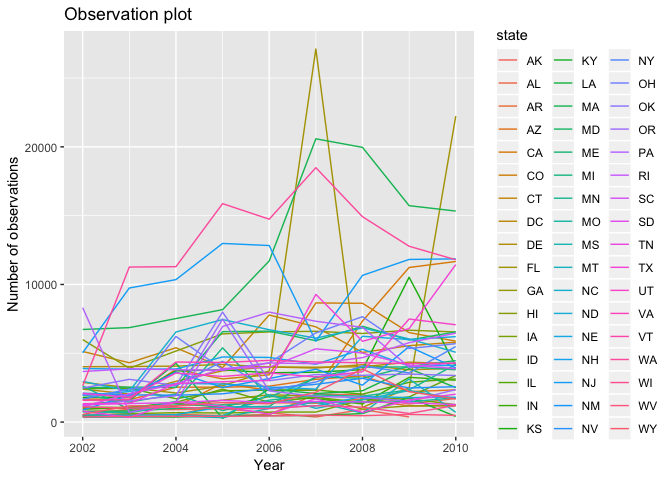
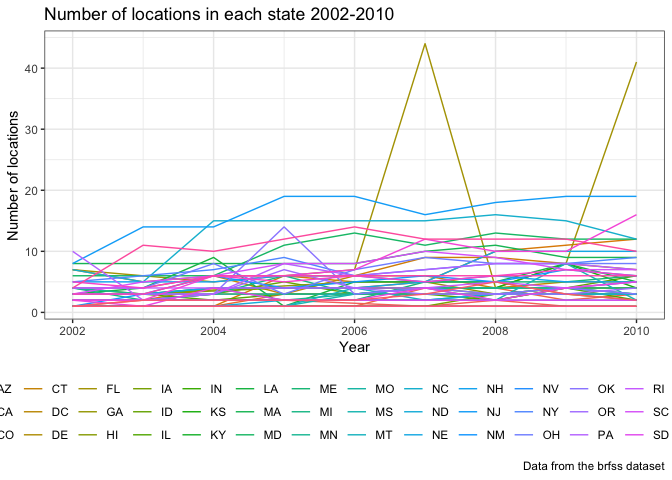
Make correspongding correction to problem 1 and 2

diff --git a/p8105_hw3_xz2788.md b/p8105_hw3_xz2788.md
@@ -80,17 +80,23 @@ There are three states were observed at 7 locations. These are: "Connecticut (CT
 ``` r
 brfss_smart2010_tidy %>% 
   group_by(state, year) %>% 
-  summarize(n_obs = sum(sample_size)) %>% 
-  ggplot(aes(x = year, y = n_obs)) + 
+  summarize(n_locat = sum(n_distinct(geo_location, na.rm = TRUE))) %>% 
+  ggplot(aes(x = year, y = n_locat)) + 
   geom_line(aes(color = state)) +
+  theme_bw() +
   labs(
-    title = "Observation plot",
+    title = "Number of locations in each state 2002-2010",
     x = "Year",
-    y = "Number of observations"
-  )
+    y = "Number of locations",
+    caption = "Data from the brfss dataset"
+  ) +
+  theme(legend.position = "bottom") +
+  guides(col = guide_legend(nrow = 3))
 ```
 
 ![](p8105_hw3_xz2788_files/figure-markdown_github/spaghetti_plot-1.png)
+
+FL state has the highest number of locations in the year of 2007, but some of these stations did not conduct the study every year. Most of the state only have less than 10 locations.
 
 Making a table
 --------------
@@ -112,22 +118,32 @@ filter(brfss_smart2010_tidy,
 |  2006|      4.00|       22.53|
 |  2010|      3.57|       22.70|
 
+From 2002 to 2010, the mean proportion of "Excellence" response decreased from 24% to 22.7% in New York City, and the standard deviations were also decreasing which showed that different proportions of "Excellence" in different locations in NY was smaller.
+
 Five-panel plot
 ---------------
 
 ``` r
 brfss_smart2010_tidy %>% 
   group_by(state, year, response) %>% 
-  summarize(average_prop = mean(data_value)) %>% 
+  summarize(average_prop = mean(data_value, na.rm = TRUE)) %>% 
   ggplot(aes(x = year, y = average_prop)) +
   geom_line(aes(color = state)) +
   facet_grid(. ~ response) +
-   theme(legend.position = "bottom")
+  theme_bw() +
+  labs(
+    title = "Proportion of each response 2002-2010",
+    x = "Year",
+    y = "Average proportion of response (%)",
+    caption = "Data from the brfss dataset"
+  ) +
+   theme(legend.position = "bottom") +
+  guides(col = guide_legend(nrow = 3))
 ```
 
-    ## Warning: Removed 1 rows containing missing values (geom_path).
-
 ![](p8105_hw3_xz2788_files/figure-markdown_github/make_five_panel_plot-1.png)
+
+Through the years, the proportion of each response floated up and down, but most of people have "Very good", "Good" and "Excellent" response. Those states which had high proportion of "Fair" or "Poor" were also likely to have low proportion of good positive responses.
 
 Problem 2
 =========
@@ -179,17 +195,75 @@ There are in total 134 aisles and the aisle of "fresh vegetables" is the most it
 Plot of the number of items ordered in each aisle
 -------------------------------------------------
 
+Because of the large sample, divide into 3 groups for plotting
+
 ``` r
-instacart %>% 
+desc_instacart = instacart %>% 
   group_by(aisle) %>% 
   summarize(n_items = n()) %>% 
-  ggplot(aes(x = aisle, y = n_items)) +
-  geom_point()
+  arrange(-n_items) 
+group_1 = desc_instacart[1:45,]
+group_2 = desc_instacart[45:90,]
+group_3 = desc_instacart[91:134,]
 ```
 
-![](p8105_hw3_xz2788_files/figure-markdown_github/plot_item_in_aisle-1.png)
+Plotting three plot seperately and then combine
 
-Comment:
+``` r
+group_1 %>%  
+  transform(aisle = reorder(aisle, -n_items)) %>% 
+  ggplot(aes(x = aisle, y = n_items)) +
+  geom_bar(stat = "identity") +
+  theme_bw() +
+  geom_text(aes(label = n_items)) +
+  labs(
+    title = "Number of products ordered in each aisle",
+    x = "Aisle",
+    y = "Number of products",
+    caption = "Data from the instacart dataset"
+  ) +
+  coord_flip()
+```
+
+![](p8105_hw3_xz2788_files/figure-markdown_github/plot_ailse-1.png)
+
+``` r
+group_2 %>%  
+  transform(aisle = reorder(aisle, -n_items)) %>% 
+  ggplot(aes(x = aisle, y = n_items)) +
+  geom_bar(stat = "identity") +
+  theme_bw() +
+  geom_text(aes(label = n_items)) +
+  labs(
+    title = "Number of products ordered in each aisle",
+    x = "Aisle",
+    y = "Number of products",
+    caption = "Data from the instacart dataset"
+  ) +
+  coord_flip()
+```
+
+![](p8105_hw3_xz2788_files/figure-markdown_github/plot_ailse-2.png)
+
+``` r
+group_3 %>%  
+  transform(aisle = reorder(aisle, -n_items)) %>% 
+  ggplot(aes(x = aisle, y = n_items)) +
+  geom_bar(stat = "identity") +
+  theme_bw() +
+  geom_text(aes(label = n_items)) +
+  labs(
+    title = "Number of products ordered in each aisle",
+    x = "Aisle",
+    y = "Number of products",
+    caption = "Data from the instacart dataset"
+  ) +
+  coord_flip()
+```
+
+![](p8105_hw3_xz2788_files/figure-markdown_github/plot_ailse-3.png)
+
+Comment: The most popular aisles are "fresh fruits" and "fresh vegetables", there are over 150000 items ordered from each aisle. The least popular aisle is "beauty" which is less than 300.
 
 Table showing the most popular item in three specific aisles
 ------------------------------------------------------------
@@ -216,18 +290,21 @@ Table showing the mean hour of the day
 --------------------------------------
 
 ``` r
+instacart$order_dow = recode(instacart$order_dow, `0` = "Sunday", `6` = "Saturday", `5` = "Friday", `4` = "Thursday", `3` = "Wednesday", `2` = "Tuesday", `1` = "Monday") 
+instacart$order_dow = factor(instacart$order_dow, levels = c("Sunday", "Monday", "Tuesday", "Wednesday", "Thursday", "Friday", "Saturday"))
+
 instacart %>% 
   filter(product_name %in% c("Pink Lady Apples", "Coffee Ice Cream")) %>% 
   group_by(product_name, order_dow) %>% 
   summarize(mean_hour = round(mean(order_hour_of_day))) %>% 
   spread(key = order_dow, value = mean_hour) %>% 
-  knitr::kable()
+  knitr::kable() 
 ```
 
-| product\_name    |    0|    1|    2|    3|    4|    5|    6|
-|:-----------------|----:|----:|----:|----:|----:|----:|----:|
-| Coffee Ice Cream |   14|   14|   15|   15|   15|   12|   14|
-| Pink Lady Apples |   13|   11|   12|   14|   12|   13|   12|
+| product\_name    |  Sunday|  Monday|  Tuesday|  Wednesday|  Thursday|  Friday|  Saturday|
+|:-----------------|-------:|-------:|--------:|----------:|---------:|-------:|---------:|
+| Coffee Ice Cream |      14|      14|       15|         15|        15|      12|        14|
+| Pink Lady Apples |      13|      11|       12|         14|        12|      13|        12|
 
 People usually buy coffee ice cream in the afternoon of the day, just after lunch, but for Friday, the time is a little bit earlier. The ordering time of pink lady apples are earlier than that of coffee ice cream, almost at noon. The ordering time among days of the week does not vary a lot.
 
@@ -278,7 +355,7 @@ ny_noaa_tidy %>%
     ##   <int>   <int>
     ## 1     0 2008508
 
-Thus, for snowfall, the most commonly observed value is 0. Because I firstly filter the all the data from "snow" which is not an NA. The left data of snowfall is actually the data that stations documented instead of missing value.
+Thus, for snowfall, the most commonly observed value is 0. Because I firstly filter the all the data from "snow" which is not an NA. The left data of snowfall is actually the data that stations documented instead of missing value. 0 means it didn't snow at that day.
 
 Making a plot of average temperatures in January and July
 ---------------------------------------------------------
